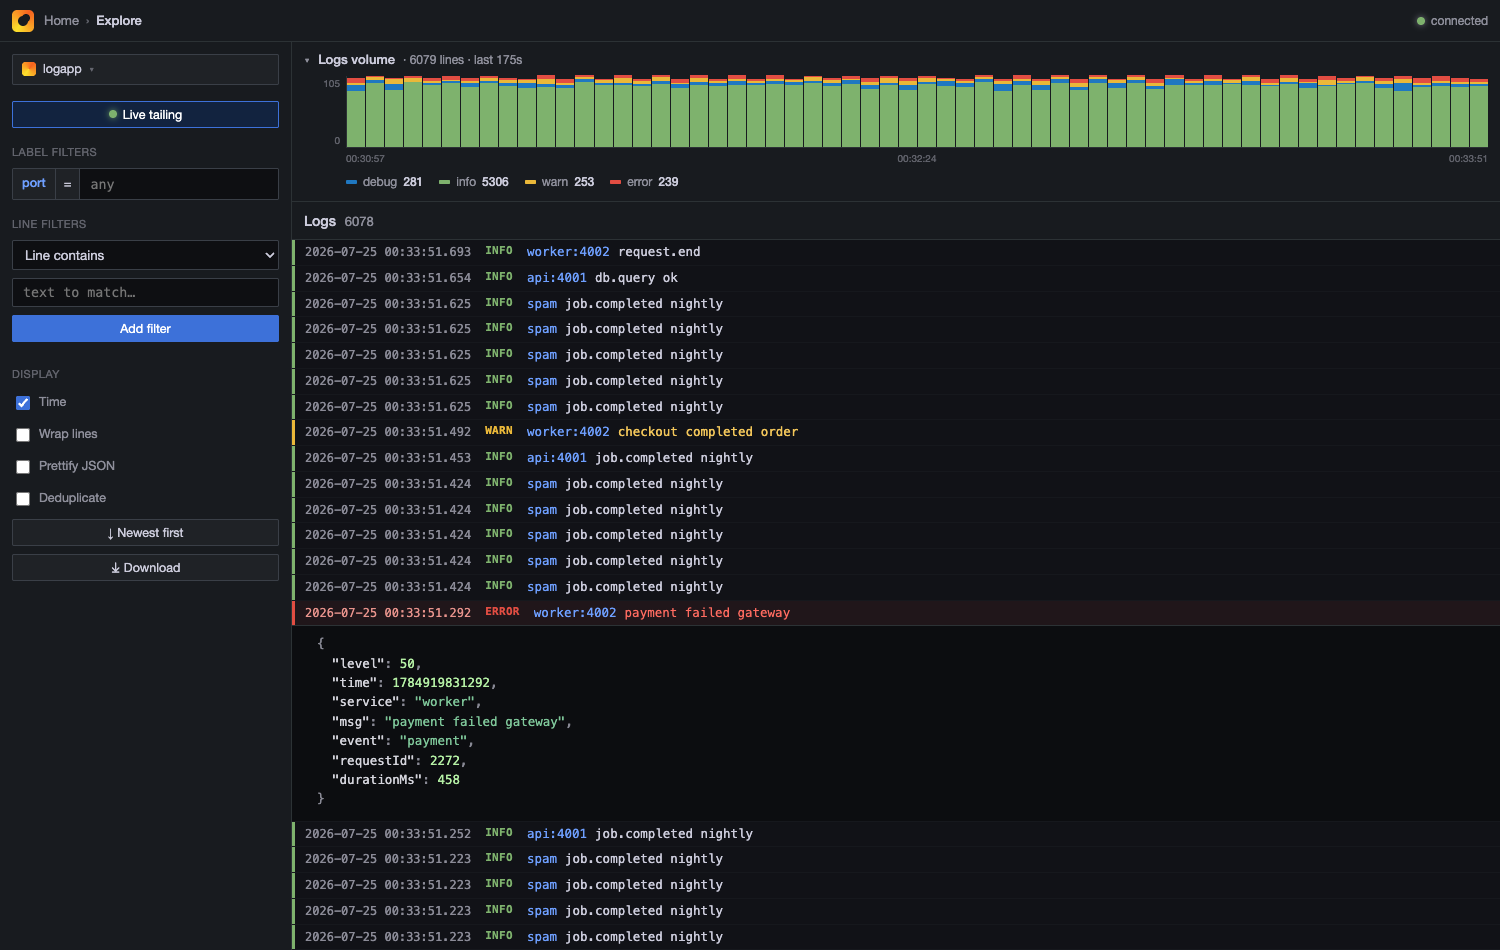
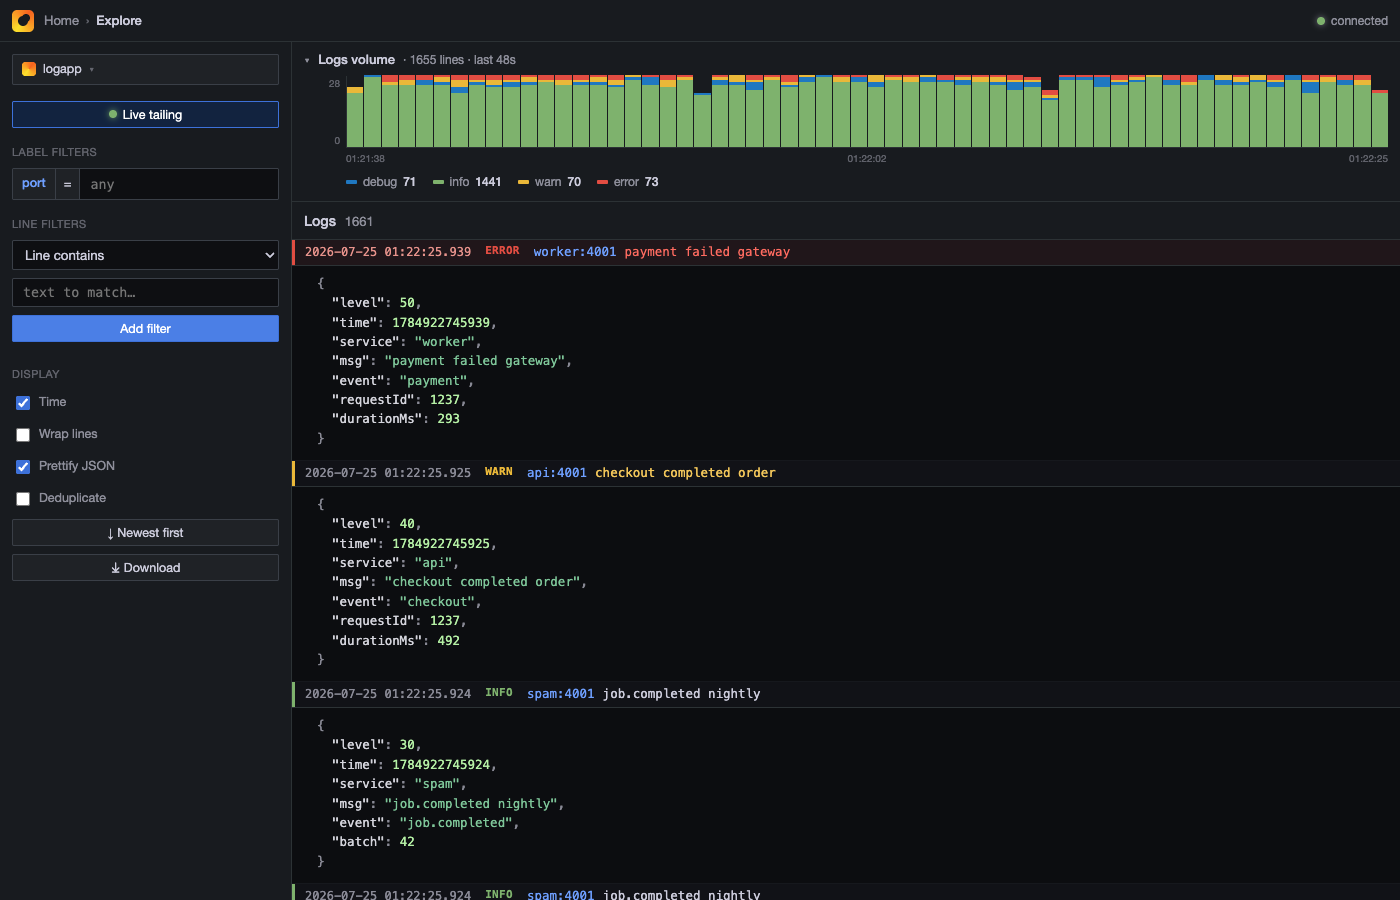
Prettify JSON on by default; keep sidebar from clipping on long filters
- Prettify JSON defaults ON: every log (existing + new) auto-expands into the
  syntax-highlighted JSON view; clicking a line no longer collapses/expands it
- Long line-filter chips truncate with ellipsis (full value on hover); sidebar
  never overflows horizontally so its controls can't get clipped
- E2E: 35/35

Changed region(s): [[0.0, 0.0622, 1.0, 1.0], [0.0, 0.0, 0.0921, 0.0311], [0.9521, 0.0, 1.0, 0.0311]]

diff --git a/public/index.html b/public/index.html
@@ -15,7 +15,7 @@
     --l-warn: #eab839; --l-error: #e24d42; --l-fatal: #705da0; --l-unknown: #8e8e93;
   }
   * { box-sizing: border-box; }
-  html, body { margin: 0; height: 100%; }
+  html, body { margin: 0; height: 100%; overflow: hidden; }
   body { background: var(--canvas); color: var(--text); overflow: hidden;
     font: 13px/1.5 Inter, "Helvetica Neue", Arial, -apple-system, BlinkMacSystemFont, sans-serif;
     display: flex; flex-direction: column; }
@@ -64,16 +64,18 @@
   .lin { background: var(--input); border: 1px solid var(--border2); color: var(--text); border-radius: 2px; padding: 6px 10px; outline: none; width: 260px; }
   .lin:focus, .sel:focus { border-color: var(--blue); }
   .chips { display: flex; gap: 6px; flex-wrap: wrap; }
-  .fchip { display: inline-flex; align-items: center; gap: 6px; background: var(--blue-bg); border: 1px solid #24406e;
+  .fchip { display: inline-flex; align-items: center; gap: 6px; max-width: 100%; background: var(--blue-bg); border: 1px solid #24406e;
     border-radius: 2px; padding: 3px 8px; font-size: 12px; }
-  .fchip .op { color: var(--blue2); font-weight: 700; font-family: "Roboto Mono", monospace; }
-  .fchip .x { color: var(--faint); cursor: pointer; }
+  .fchip .op { color: var(--blue2); font-weight: 700; font-family: "Roboto Mono", monospace; flex: none; }
+  .fchip .fval { min-width: 0; overflow: hidden; text-overflow: ellipsis; white-space: nowrap; }
+  .fchip .x { color: var(--faint); cursor: pointer; flex: none; }
   .fchip .x:hover { color: var(--text); }
+  .chips { max-width: 100%; }
 
   /* layout: left sidebar + center logs */
   .app { flex: 1; display: flex; min-height: 0; }
   .sidebar { width: 292px; flex: none; background: var(--panel); border-right: 1px solid var(--border);
-    overflow-y: auto; padding: 12px; display: flex; flex-direction: column; gap: 16px; }
+    overflow-x: hidden; overflow-y: auto; padding: 12px; display: flex; flex-direction: column; gap: 16px; }
   .main { flex: 1; display: flex; flex-direction: column; min-width: 0; overflow: hidden; }
   .sb-sec { display: flex; flex-direction: column; gap: 8px; align-items: stretch; }
   .sb-h { color: var(--faint); font-size: 11px; text-transform: uppercase; letter-spacing: .5px; }
@@ -133,7 +135,7 @@
   .row.error .lvl { color: var(--l-error); } .row.fatal .lvl { color: var(--l-fatal); }
   .row .m { padding: 3px 12px 3px 0; color: var(--text); white-space: pre; overflow: hidden; text-overflow: ellipsis; font-size: 12.5px; }
   .row.wrap .m { white-space: pre-wrap; word-break: break-word; }
-  .row:hover { background: var(--hover); cursor: pointer; }
+  .row:hover { background: var(--hover); }
   .row .m .src { color: var(--blue2); margin-right: 8px; }
   .row .m mark { background: #b9840f; color: #fff; border-radius: 1px; }
   .row .m .dup { display: inline-block; margin-left: 8px; background: var(--raised); color: var(--weak);
@@ -201,7 +203,7 @@
       <div class="sb-h">Display</div>
       <label class="chk"><input type="checkbox" id="time" checked /> Time</label>
       <label class="chk"><input type="checkbox" id="wrap" /> Wrap lines</label>
-      <label class="chk"><input type="checkbox" id="prettify" /> Prettify JSON</label>
+      <label class="chk"><input type="checkbox" id="prettify" checked /> Prettify JSON</label>
       <label class="chk"><input type="checkbox" id="dedup" /> Deduplicate</label>
       <button class="tbtn" id="sort">↓ Newest first</button>
       <button class="tbtn" id="download">⤓ Download</button>
@@ -239,7 +241,7 @@ const expanded = new Set()
 const lineFilters = []
 let portFilter = ''
 const MAX_DOM = 1500
-let live = true, wrap = false, prettify = false, dedup = false, showTime = true, sortDesc = true
+let live = true, wrap = false, prettify = true, dedup = false, showTime = true, sortDesc = true
 let pendingNew = 0, renderTimer = null, lastHist = 0, atEdgeAllowed = true
 
 const $ = (id) => document.getElementById(id)
@@ -291,7 +293,7 @@ function highlight (text) {
 }
 
 function renderActiveFilters () {
-  $('activef').innerHTML = lineFilters.map((f, i) => '<span class="fchip"><span class="op">' + glyph(f.op) + '</span> "' + esc(f.value) + '" <span class="x" data-i="' + i + '">✕</span></span>').join('')
+  $('activef').innerHTML = lineFilters.map((f, i) => '<span class="fchip"><span class="op">' + glyph(f.op) + '</span><span class="fval" title="' + esc(f.value) + '">"' + esc(f.value) + '"</span><span class="x" data-i="' + i + '">✕</span></span>').join('')
   Array.from($('activef').querySelectorAll('.x')).forEach((el) => { el.onclick = () => { lineFilters.splice(+el.dataset.i, 1); renderActiveFilters(); scheduleRender(true); renderHistogram() } })
 }
 
@@ -389,15 +391,6 @@ function renderLegend (filtered) {
 }
 
 logEl.addEventListener('scroll', () => { atEdgeAllowed = atEdge(); if (atEdgeAllowed) { pendingNew = 0; newBtn.style.display = 'none' } })
-logEl.addEventListener('click', (e) => {
-  if (window.getSelection().toString().trim()) return
-  const row = e.target.closest('.row'); if (!row) return
-  const id = Number(row.getAttribute('data-id'))
-  const ev = events.find((x) => x.id === id); if (!ev || !ev.fields) return
-  if (expanded.has(id)) expanded.delete(id); else expanded.add(id)
-  const keep = atEdgeAllowed; atEdgeAllowed = false; render(); atEdgeAllowed = keep
-})
-
 function addFilterValue (v, op) { if (!v) return; lineFilters.push({ op, value: v }); renderActiveFilters(); scheduleRender(true); renderHistogram() }
 const selmenu = $('selmenu')
 let selText = ''
@@ -433,6 +426,7 @@ function addEvent (ev, isLive) {
   events.push(ev)
   if (events.length > 9000) events.splice(0, events.length - 9000)
   if (!streamState[ev.stream]) streamState[ev.stream] = { color: appColor(ev.stream), port: null }
+  if (prettify && ev.fields) expanded.add(ev.id)
   if (!isLive) return
   renderHistogram()
   if (!live) { if (passes(ev)) { pendingNew++; showNew() } return }
